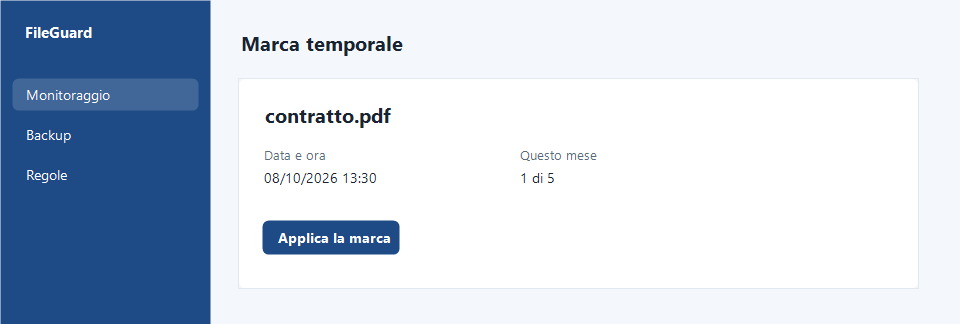
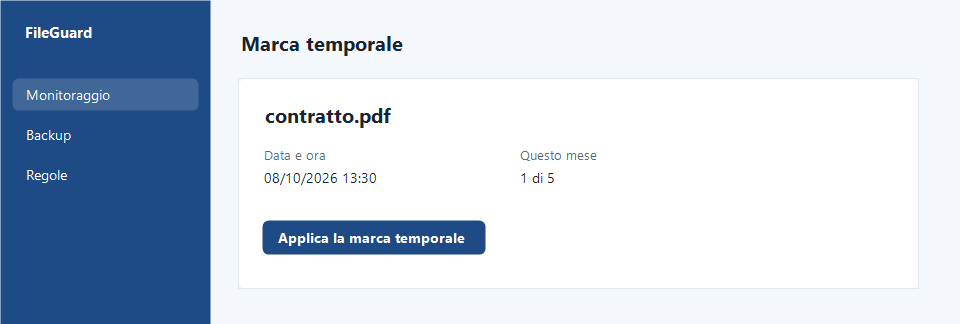
Update the FileGuard page prototype.

Changed region(s): [[0.4062, 0.679, 0.5312, 0.8025]]

diff --git a/index.html b/index.html
@@ -242,7 +242,7 @@
 
     <section class="fascia-azzurra">
       <div class="largo">
-      <h2>Marca e installazione</h2>
+      <h2>Marca temporale e installazione</h2>
       <p class="intro">Marca temporale su un documento e installazione guidata con lo stesso account.</p>
       <div class="schede">
         <article class="scheda">
@@ -253,7 +253,7 @@
         </article>
         <article class="scheda">
           <svg class="icona" viewBox="0 0 24 24" aria-hidden="true"><path d="M7 4.5h7.2L18 8.3V19.5H7Z" fill="none" stroke="currentColor" stroke-width="1.75" stroke-linejoin="round"/><path d="M14 4.5v4h4" fill="none" stroke="currentColor" stroke-width="1.75" stroke-linejoin="round"/><circle cx="11.2" cy="14" r="1.3" fill="currentColor"/></svg>
-          <h3>Marca su documento</h3>
+          <h3>Marca temporale sul documento</h3>
           <p>Si applica su un singolo documento.</p>
           <p>Fino a 5 al mese.</p>
         </article>

diff --git a/funzioni.html b/funzioni.html
@@ -168,12 +168,12 @@
 
     <section class="fascia-azzurra">
       <div class="largo">
-        <h2>Marca e installazione</h2>
+        <h2>Marca temporale e installazione</h2>
         <p class="intro">Marca temporale su un documento e installazione guidata con lo stesso account.</p>
         <div class="schede schede-2">
           <article class="scheda">
             <svg class="icona" viewBox="0 0 24 24" aria-hidden="true"><path d="M7 4.5h7.2L18 8.3V19.5H7Z" fill="none" stroke="currentColor" stroke-width="1.75" stroke-linejoin="round"/><path d="M14 4.5v4h4" fill="none" stroke="currentColor" stroke-width="1.75" stroke-linejoin="round"/><circle cx="11.2" cy="14" r="1.3" fill="currentColor"/></svg>
-            <h3>Marca su documento</h3>
+            <h3>Marca temporale sul documento</h3>
             <p>Si applica su un singolo documento.</p>
             <p>Fino a 5 al mese.</p>
           </article>

diff --git a/licenza.html b/licenza.html
@@ -62,7 +62,7 @@
           </article>
           <article class="scheda">
             <svg class="icona" viewBox="0 0 24 24" aria-hidden="true"><path d="M7 4.5h7.2L18 8.3V19.5H7Z" fill="none" stroke="currentColor" stroke-width="1.75" stroke-linejoin="round"/><path d="M14 4.5v4h4" fill="none" stroke="currentColor" stroke-width="1.75" stroke-linejoin="round"/><circle cx="11.2" cy="14" r="1.3" fill="currentColor"/></svg>
-            <h3>Marca su documento</h3>
+            <h3>Marca temporale sul documento</h3>
             <p>Fino a 5 al mese.</p>
           </article>
         </div>

diff --git a/piani.html b/piani.html
@@ -62,7 +62,7 @@
           </article>
           <article class="scheda">
             <svg class="icona" viewBox="0 0 24 24" aria-hidden="true"><path d="M7 4.5h7.2L18 8.3V19.5H7Z" fill="none" stroke="currentColor" stroke-width="1.75" stroke-linejoin="round"/><path d="M14 4.5v4h4" fill="none" stroke="currentColor" stroke-width="1.75" stroke-linejoin="round"/><circle cx="11.2" cy="14" r="1.3" fill="currentColor"/></svg>
-            <h3>Marca su documento</h3>
+            <h3>Marca temporale sul documento</h3>
             <p>Fino a 5 al mese.</p>
           </article>
         </div>

diff --git a/che-cose.html b/che-cose.html
@@ -99,7 +99,7 @@
         <h2>Domande</h2>
         <div class="faq">
         <details>
-          <summary>I file restano da Egonex?</summary>
+          <summary>Le copie restano sui sistemi di Egonex?</summary>
           <p>No. Le copie restano su disco, server, NAS o un cloud già in uso. Anche in doppia copia.</p>
         </details>
         <details>
